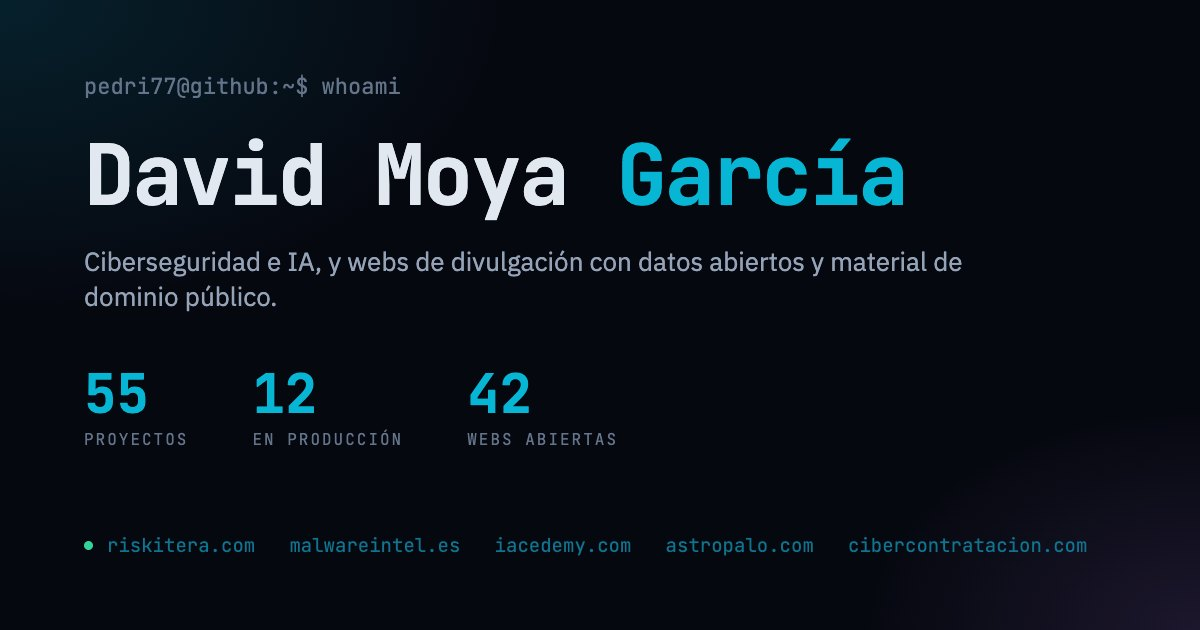
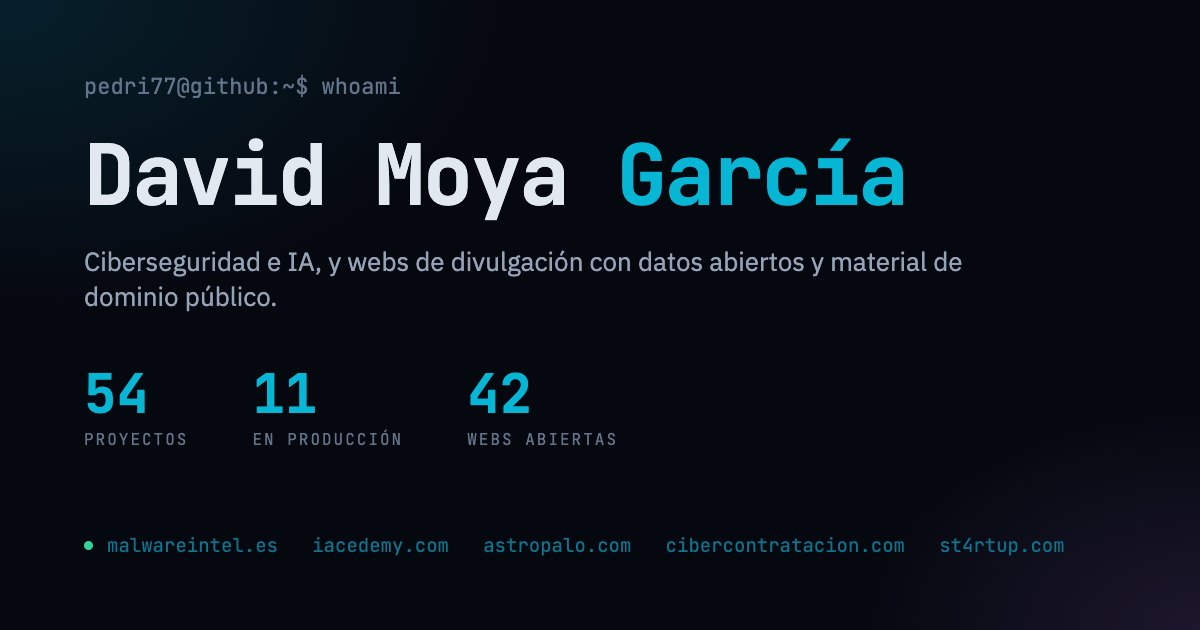
Quitar Riskitera del portfolio
Fuera la tarjeta y su captura, el icono de la cabecera, riskitera.com de la
cinta, el botón del pitch deck y la mención en la meta description y el
terminal. La rejilla pasa a 6 destacadas y 6 normales para que no queden
huecos. La imagen og se regenera con las cifras nuevas y sin subdominios.

diff --git a/index.html b/index.html
@@ -4,7 +4,7 @@
 <meta charset="utf-8"/>
 <meta name="viewport" content="width=device-width, initial-scale=1"/>
 <title>David Moya García: ciberseguridad, IA y webs de divulgación</title>
-<meta name="description" content="Portfolio de proyectos de ciberseguridad e inteligencia artificial (Riskitera, IAcademy, MalwareIntel, Astropalo, CiberContratación) y webs de divulgación con datos abiertos y material de dominio público."/>
+<meta name="description" content="Portfolio de proyectos de ciberseguridad e inteligencia artificial (IAcademy, MalwareIntel, Astropalo, CiberContratación) y webs de divulgación con datos abiertos y material de dominio público."/>
 <link rel="canonical" href="https://pedri77.github.io/"/>
 <link rel="icon" type="image/svg+xml" href="assets/favicon.svg"/>
 <meta property="og:type" content="website"/>
@@ -346,14 +346,13 @@ a{color:inherit;text-decoration:none}
   <span class="hero-tag">IA autoalojada</span>
 </div>
 <div class="hero-accesos mono">
-  <a href="#projects" class="hero-acceso">Plataformas <span><!-- gen:acc-plataformas -->12<!-- /gen:acc-plataformas --></span> &darr;</a>
+  <a href="#projects" class="hero-acceso">Plataformas <span><!-- gen:acc-plataformas -->11<!-- /gen:acc-plataformas --></span> &darr;</a>
   <a href="#oss" class="hero-acceso">Webs de divulgación <span><!-- gen:acc-webs -->42<!-- /gen:acc-webs --></span> &darr;</a>
 </div>
 <div class="hero-links">
   <a href="https://github.com/pedri77" target="_blank" class="hero-social" title="GitHub"><svg viewBox="0 0 24 24" fill="currentColor"><path d="M12 0C5.37 0 0 5.37 0 12c0 5.31 3.435 9.795 8.205 11.385.6.105.825-.255.825-.57 0-.285-.015-1.23-.015-2.235-3.015.555-3.795-.735-4.035-1.41-.135-.345-.72-1.41-1.23-1.695-.42-.225-1.02-.78-.015-.795.945-.015 1.62.87 1.845 1.23 1.08 1.815 2.805 1.305 3.495.99.105-.78.42-1.305.765-1.605-2.67-.3-5.46-1.335-5.46-5.925 0-1.305.465-2.385 1.23-3.225-.12-.3-.54-1.53.12-3.18 0 0 1.005-.315 3.3 1.23.96-.27 1.98-.405 3-.405s2.04.135 3 .405c2.295-1.56 3.3-1.23 3.3-1.23.66 1.65.24 2.88.12 3.18.765.84 1.23 1.905 1.23 3.225 0 4.605-2.805 5.625-5.475 5.925.435.375.81 1.095.81 2.22 0 1.605-.015 2.895-.015 3.3 0 .315.225.69.825.57A12.02 12.02 0 0024 12c0-6.63-5.37-12-12-12z"/></svg></a>
   <a href="https://www.linkedin.com/in/david-moya-b3a77547" target="_blank" class="hero-social" title="LinkedIn"><svg viewBox="0 0 24 24" fill="currentColor"><path d="M20.447 20.452h-3.554v-5.569c0-1.328-.027-3.037-1.852-3.037-1.853 0-2.136 1.445-2.136 2.939v5.667H9.351V9h3.414v1.561h.046c.477-.9 1.637-1.85 3.37-1.85 3.601 0 4.267 2.37 4.267 5.455v6.286zM5.337 7.433a2.062 2.062 0 01-2.063-2.065 2.064 2.064 0 112.063 2.065zm1.782 13.019H3.555V9h3.564v11.452zM22.225 0H1.771C.792 0 0 .774 0 1.729v20.542C0 23.227.792 24 1.771 24h20.451C23.2 24 24 23.227 24 22.271V1.729C24 .774 23.2 0 22.222 0h.003z"/></svg></a>
   <a href="mailto:info@iacedemy.com" class="hero-social" title="Email"><svg viewBox="0 0 24 24" fill="none" stroke="currentColor" stroke-width="2"><path d="M4 4h16c1.1 0 2 .9 2 2v12c0 1.1-.9 2-2 2H4c-1.1 0-2-.9-2-2V6c0-1.1.9-2 2-2z"/><polyline points="22,6 12,13 2,6"/></svg></a>
-  <a href="https://riskitera.com" target="_blank" class="hero-social" title="Riskitera"><svg viewBox="0 0 24 24" fill="none" stroke="currentColor" stroke-width="2"><circle cx="12" cy="12" r="10"/><line x1="2" y1="12" x2="22" y2="12"/><path d="M12 2a15.3 15.3 0 014 10 15.3 15.3 0 01-4 10 15.3 15.3 0 01-4-10 15.3 15.3 0 014-10z"/></svg></a>
   <a href="https://platform-cibersecurity.net" target="_blank" class="hero-social" title="Blog"><svg viewBox="0 0 24 24" fill="none" stroke="currentColor" stroke-width="2"><path d="M2 3h6a4 4 0 014 4v14a3 3 0 00-3-3H2z"/><path d="M22 3h-6a4 4 0 00-4 4v14a3 3 0 013-3h7z"/></svg></a>
 </div>
 
@@ -366,10 +365,10 @@ a{color:inherit;text-decoration:none}
 <!-- Stats -->
 <section class="stats-bar">
 <div class="stats-grid">
-  <div class="stat-item reveal"><div class="stat-color" style="color:var(--cyan)"><!-- gen:cifra-total --><div class="mono stat-val" data-count="55">55</div><!-- /gen:cifra-total --></div><div class="mono stat-lbl">Proyectos</div></div>
-  <div class="stat-item reveal reveal-d1"><div class="stat-color" style="color:var(--green)"><!-- gen:cifra-vivos --><div class="mono stat-val" data-count="12">12</div><!-- /gen:cifra-vivos --></div><div class="mono stat-lbl">En producción</div></div>
+  <div class="stat-item reveal"><div class="stat-color" style="color:var(--cyan)"><!-- gen:cifra-total --><div class="mono stat-val" data-count="54">54</div><!-- /gen:cifra-total --></div><div class="mono stat-lbl">Proyectos</div></div>
+  <div class="stat-item reveal reveal-d1"><div class="stat-color" style="color:var(--green)"><!-- gen:cifra-vivos --><div class="mono stat-val" data-count="11">11</div><!-- /gen:cifra-vivos --></div><div class="mono stat-lbl">En producción</div></div>
   <div class="stat-item reveal reveal-d2"><div class="stat-color" style="color:var(--purple)"><!-- gen:cifra-webs --><div class="mono stat-val" data-count="42">42</div><!-- /gen:cifra-webs --></div><div class="mono stat-lbl">Webs abiertas</div></div>
-  <div class="stat-item reveal reveal-d3"><div class="stat-color" style="color:var(--amber)"><!-- gen:cifra-dominios --><div class="mono stat-val" data-count="10">10</div><!-- /gen:cifra-dominios --></div><div class="mono stat-lbl">Dominios propios</div></div>
+  <div class="stat-item reveal reveal-d3"><div class="stat-color" style="color:var(--amber)"><!-- gen:cifra-dominios --><div class="mono stat-val" data-count="9">9</div><!-- /gen:cifra-dominios --></div><div class="mono stat-lbl">Dominios propios</div></div>
 </div>
 </section>
 
@@ -377,7 +376,6 @@ a{color:inherit;text-decoration:none}
 <div class="ticker" role="marquee" aria-label="Dominios en producción">
   <div class="ticker-track mono">
     <div class="ticker-group">
-      <span class="ticker-item"><span class="ticker-dot"></span>riskitera.com</span>
       <span class="ticker-item"><span class="ticker-dot"></span>malwareintel.es</span>
       <span class="ticker-item"><span class="ticker-dot"></span>iacedemy.com</span>
       <span class="ticker-item"><span class="ticker-dot"></span>astropalo.com</span>
@@ -388,7 +386,6 @@ a{color:inherit;text-decoration:none}
       <span class="ticker-item"><span class="ticker-dot"></span>empresaautomatizada.es</span>
     </div>
     <div class="ticker-group" aria-hidden="true">
-      <span class="ticker-item"><span class="ticker-dot"></span>riskitera.com</span>
       <span class="ticker-item"><span class="ticker-dot"></span>malwareintel.es</span>
       <span class="ticker-item"><span class="ticker-dot"></span>iacedemy.com</span>
       <span class="ticker-item"><span class="ticker-dot"></span>astropalo.com</span>
@@ -406,13 +403,12 @@ a{color:inherit;text-decoration:none}
 <h2 class="mono section-title reveal"><span>Plataformas</span> y productos</h2>
 <p class="section-desc reveal reveal-d1">Lo que construyo y mantengo en producción: ciberseguridad, inteligencia de amenazas, formación y automatización con IA.</p>
 <div class="projects-grid" id="projects-grid"><!-- gen:proyectos -->
-<article class="project-card reveal featured" style="transition-delay:0.00s;--card-color:var(--cyan)"><div class="card-media"><img src="assets/screens/riskitera.webp" alt="Captura de Riskitera" width="900" height="563" loading="lazy" decoding="async"/></div><div class="project-header"><h3 class="mono project-name" style="color:var(--cyan)">Riskitera</h3><span class="mono project-status status-live">En producción</span></div><p class="project-desc">Plataforma GRC/SOC/CTI B2B para enterprises reguladas. Multi-tenant, ENS Alto, agentes IA self-hosted.</p><a href="https://riskitera.com" target="_blank" rel="noopener" class="mono project-url">riskitera.com</a><div class="project-tags mono"><span class="project-tag">FastAPI</span><span class="project-tag">Next.js</span><span class="project-tag">Supabase</span><span class="project-tag">LangGraph</span><span class="project-tag">ENS Alto</span></div><div class="project-links mono"><a href="https://riskitera.com" target="_blank" rel="noopener" class="project-link"><svg viewBox="0 0 24 24" fill="none" stroke="currentColor" stroke-width="2" aria-hidden="true"><use href="#i-link"/></svg> Web</a><a href="https://demo.riskitera.com" target="_blank" rel="noopener" class="project-link"><svg viewBox="0 0 24 24" fill="none" stroke="currentColor" stroke-width="2" aria-hidden="true"><use href="#i-link"/></svg> Demo</a></div><div class="card-shine" aria-hidden="true"></div><div class="card-spot" aria-hidden="true"></div><div class="card-beam" aria-hidden="true"></div></article>
-<article class="project-card reveal featured" style="transition-delay:0.06s;--card-color:var(--purple)"><div class="card-media"><img src="assets/screens/malwareintel.webp" alt="Captura de MalwareIntel" width="900" height="563" loading="lazy" decoding="async"/></div><div class="project-header"><h3 class="mono project-name" style="color:var(--purple)">MalwareIntel</h3><span class="mono project-status status-live">En producción</span></div><p class="project-desc">Plataforma CTI gratuita: 4.400+ familias de malware, 2,6M+ IOCs, 3.632 reglas de detección y 218 actores de amenaza. Soberanía UE.</p><a href="https://malwareintel.es" target="_blank" rel="noopener" class="mono project-url">malwareintel.es</a><div class="project-tags mono"><span class="project-tag">FastAPI</span><span class="project-tag">Next.js</span><span class="project-tag">Qdrant</span><span class="project-tag">MITRE ATT&CK</span><span class="project-tag">STIX 2.1</span></div><div class="project-links mono"><a href="https://malwareintel.es" target="_blank" rel="noopener" class="project-link"><svg viewBox="0 0 24 24" fill="none" stroke="currentColor" stroke-width="2" aria-hidden="true"><use href="#i-link"/></svg> Web</a></div><div class="card-shine" aria-hidden="true"></div><div class="card-spot" aria-hidden="true"></div><div class="card-beam" aria-hidden="true"></div></article>
-<article class="project-card reveal featured" style="transition-delay:0.12s;--card-color:var(--green)"><div class="card-media"><img src="assets/screens/iacademy.webp" alt="Captura de IAcademy" width="900" height="563" loading="lazy" decoding="async"/></div><div class="project-header"><h3 class="mono project-name" style="color:var(--green)">IAcademy</h3><span class="mono project-status status-live">En producción</span></div><p class="project-desc">Academy de IA aplicada en español: 614 módulos, especializaciones por profesión, 625 quizzes y 232 artículos. Desde 0 EUR.</p><a href="https://iacedemy.com" target="_blank" rel="noopener" class="mono project-url">iacedemy.com</a><div class="project-tags mono"><span class="project-tag">Formación</span><span class="project-tag">IA aplicada</span><span class="project-tag">Certificados</span><span class="project-tag">Abierto</span></div><div class="project-links mono"><a href="https://iacedemy.com" target="_blank" rel="noopener" class="project-link"><svg viewBox="0 0 24 24" fill="none" stroke="currentColor" stroke-width="2" aria-hidden="true"><use href="#i-link"/></svg> Web</a></div><div class="card-shine" aria-hidden="true"></div><div class="card-spot" aria-hidden="true"></div><div class="card-beam" aria-hidden="true"></div></article>
-<article class="project-card reveal featured" style="transition-delay:0.18s;--card-color:var(--cyan)"><div class="card-media"><img src="assets/screens/construidoconia.webp" alt="Captura de Construido con IA" width="900" height="563" loading="lazy" decoding="async"/></div><div class="project-header"><h3 class="mono project-name" style="color:var(--cyan)">Construido con IA</h3><span class="mono project-status status-live">En producción</span></div><p class="project-desc">Serie de IAcademy: cada episodio convierte un dataset público oficial en web interactiva, código abierto y vídeo explicativo. 12 episodios.</p><a href="https://youtube.com/playlist?list=PLKzUzZp5rK5o" target="_blank" rel="noopener" class="mono project-url">youtube.com/playlist?list=PLKzUzZp5rK5o</a><div class="project-tags mono"><span class="project-tag">Datos públicos</span><span class="project-tag">GitHub Pages</span><span class="project-tag">Vídeo</span><span class="project-tag">Código abierto</span></div><div class="project-links mono"><a href="https://www.youtube.com/playlist?list=PLKzUzZp5rK5o" target="_blank" rel="noopener" class="project-link"><svg viewBox="0 0 24 24" fill="none" stroke="currentColor" stroke-width="2" aria-hidden="true"><use href="#i-link"/></svg> Playlist</a><a href="https://github.com/pedri77/observatorio-datos-plantilla" target="_blank" rel="noopener" class="project-link"><svg viewBox="0 0 24 24" fill="currentColor" aria-hidden="true"><use href="#i-gh"/></svg> Plantilla</a></div><div class="card-shine" aria-hidden="true"></div><div class="card-spot" aria-hidden="true"></div><div class="card-beam" aria-hidden="true"></div></article>
-<article class="project-card reveal" style="transition-delay:0.24s;--card-color:var(--blue)"><div class="card-media"><img src="assets/screens/astropalo.webp" alt="Captura de Astropalo" width="900" height="563" loading="lazy" decoding="async"/></div><div class="project-header"><h3 class="mono project-name" style="color:var(--blue)">Astropalo</h3><span class="mono project-status status-live">En producción</span></div><p class="project-desc">Vigilancia de cumplimiento web: ENS, LSSI, RGPD y accesibilidad monitorizados desde fuera, sin instalar nada, con avisos automáticos.</p><a href="https://astropalo.com" target="_blank" rel="noopener" class="mono project-url">astropalo.com</a><div class="project-tags mono"><span class="project-tag">ENS</span><span class="project-tag">RGPD</span><span class="project-tag">LSSI</span><span class="project-tag">Accesibilidad</span><span class="project-tag">SaaS</span></div><div class="project-links mono"><a href="https://astropalo.com" target="_blank" rel="noopener" class="project-link"><svg viewBox="0 0 24 24" fill="none" stroke="currentColor" stroke-width="2" aria-hidden="true"><use href="#i-link"/></svg> Web</a></div><div class="card-shine" aria-hidden="true"></div><div class="card-spot" aria-hidden="true"></div></article>
-<article class="project-card reveal" style="transition-delay:0.30s;--card-color:var(--lime)"><div class="card-media"><img src="assets/screens/cibercontratacion.webp" alt="Captura de CiberContratacion" width="900" height="563" loading="lazy" decoding="async"/></div><div class="project-header"><h3 class="mono project-name" style="color:var(--lime)">CiberContratacion</h3><span class="mono project-status status-live">En producción</span></div><p class="project-desc">Inteligencia de ciberseguridad en la contratación pública española: 6.008+ licitaciones, 121 organismos, scoring y threat actors.</p><a href="https://cibercontratacion.com" target="_blank" rel="noopener" class="mono project-url">cibercontratacion.com</a><div class="project-tags mono"><span class="project-tag">Licitaciones</span><span class="project-tag">Scoring</span><span class="project-tag">Inteligencia de amenazas</span><span class="project-tag">Sector público</span></div><div class="project-links mono"><a href="https://cibercontratacion.com" target="_blank" rel="noopener" class="project-link"><svg viewBox="0 0 24 24" fill="none" stroke="currentColor" stroke-width="2" aria-hidden="true"><use href="#i-link"/></svg> Web</a></div><div class="card-shine" aria-hidden="true"></div><div class="card-spot" aria-hidden="true"></div></article>
-<article class="project-card reveal" style="transition-delay:0.36s;--card-color:var(--purple)"><div class="card-media"><img src="assets/screens/airadar.webp" alt="Captura de AI Radar" width="900" height="563" loading="lazy" decoding="async"/></div><div class="project-header"><h3 class="mono project-name" style="color:var(--purple)">AI Radar</h3><span class="mono project-status status-live">En producción</span></div><p class="project-desc">Sistema de conocimiento del ecosistema IA: descubre, analiza y sigue modelos, frameworks, papers y herramientas en tiempo real.</p><a href="https://airadar.iacedemy.com" target="_blank" rel="noopener" class="mono project-url">airadar.iacedemy.com</a><div class="project-tags mono"><span class="project-tag">Ecosistema IA</span><span class="project-tag">Seguimiento</span><span class="project-tag">Base de conocimiento</span></div><div class="project-links mono"><a href="https://airadar.iacedemy.com" target="_blank" rel="noopener" class="project-link"><svg viewBox="0 0 24 24" fill="none" stroke="currentColor" stroke-width="2" aria-hidden="true"><use href="#i-link"/></svg> Web</a></div><div class="card-shine" aria-hidden="true"></div><div class="card-spot" aria-hidden="true"></div></article>
+<article class="project-card reveal featured" style="transition-delay:0.00s;--card-color:var(--purple)"><div class="card-media"><img src="assets/screens/malwareintel.webp" alt="Captura de MalwareIntel" width="900" height="563" loading="lazy" decoding="async"/></div><div class="project-header"><h3 class="mono project-name" style="color:var(--purple)">MalwareIntel</h3><span class="mono project-status status-live">En producción</span></div><p class="project-desc">Plataforma CTI gratuita: 4.400+ familias de malware, 2,6M+ IOCs, 3.632 reglas de detección y 218 actores de amenaza. Soberanía UE.</p><a href="https://malwareintel.es" target="_blank" rel="noopener" class="mono project-url">malwareintel.es</a><div class="project-tags mono"><span class="project-tag">FastAPI</span><span class="project-tag">Next.js</span><span class="project-tag">Qdrant</span><span class="project-tag">MITRE ATT&CK</span><span class="project-tag">STIX 2.1</span></div><div class="project-links mono"><a href="https://malwareintel.es" target="_blank" rel="noopener" class="project-link"><svg viewBox="0 0 24 24" fill="none" stroke="currentColor" stroke-width="2" aria-hidden="true"><use href="#i-link"/></svg> Web</a></div><div class="card-shine" aria-hidden="true"></div><div class="card-spot" aria-hidden="true"></div><div class="card-beam" aria-hidden="true"></div></article>
+<article class="project-card reveal featured" style="transition-delay:0.06s;--card-color:var(--green)"><div class="card-media"><img src="assets/screens/iacademy.webp" alt="Captura de IAcademy" width="900" height="563" loading="lazy" decoding="async"/></div><div class="project-header"><h3 class="mono project-name" style="color:var(--green)">IAcademy</h3><span class="mono project-status status-live">En producción</span></div><p class="project-desc">Academy de IA aplicada en español: 614 módulos, especializaciones por profesión, 625 quizzes y 232 artículos. Desde 0 EUR.</p><a href="https://iacedemy.com" target="_blank" rel="noopener" class="mono project-url">iacedemy.com</a><div class="project-tags mono"><span class="project-tag">Formación</span><span class="project-tag">IA aplicada</span><span class="project-tag">Certificados</span><span class="project-tag">Abierto</span></div><div class="project-links mono"><a href="https://iacedemy.com" target="_blank" rel="noopener" class="project-link"><svg viewBox="0 0 24 24" fill="none" stroke="currentColor" stroke-width="2" aria-hidden="true"><use href="#i-link"/></svg> Web</a></div><div class="card-shine" aria-hidden="true"></div><div class="card-spot" aria-hidden="true"></div><div class="card-beam" aria-hidden="true"></div></article>
+<article class="project-card reveal featured" style="transition-delay:0.12s;--card-color:var(--cyan)"><div class="card-media"><img src="assets/screens/construidoconia.webp" alt="Captura de Construido con IA" width="900" height="563" loading="lazy" decoding="async"/></div><div class="project-header"><h3 class="mono project-name" style="color:var(--cyan)">Construido con IA</h3><span class="mono project-status status-live">En producción</span></div><p class="project-desc">Serie de IAcademy: cada episodio convierte un dataset público oficial en web interactiva, código abierto y vídeo explicativo. 12 episodios.</p><a href="https://youtube.com/playlist?list=PLKzUzZp5rK5o" target="_blank" rel="noopener" class="mono project-url">youtube.com/playlist?list=PLKzUzZp5rK5o</a><div class="project-tags mono"><span class="project-tag">Datos públicos</span><span class="project-tag">GitHub Pages</span><span class="project-tag">Vídeo</span><span class="project-tag">Código abierto</span></div><div class="project-links mono"><a href="https://www.youtube.com/playlist?list=PLKzUzZp5rK5o" target="_blank" rel="noopener" class="project-link"><svg viewBox="0 0 24 24" fill="none" stroke="currentColor" stroke-width="2" aria-hidden="true"><use href="#i-link"/></svg> Playlist</a><a href="https://github.com/pedri77/observatorio-datos-plantilla" target="_blank" rel="noopener" class="project-link"><svg viewBox="0 0 24 24" fill="currentColor" aria-hidden="true"><use href="#i-gh"/></svg> Plantilla</a></div><div class="card-shine" aria-hidden="true"></div><div class="card-spot" aria-hidden="true"></div><div class="card-beam" aria-hidden="true"></div></article>
+<article class="project-card reveal featured" style="transition-delay:0.18s;--card-color:var(--blue)"><div class="card-media"><img src="assets/screens/astropalo.webp" alt="Captura de Astropalo" width="900" height="563" loading="lazy" decoding="async"/></div><div class="project-header"><h3 class="mono project-name" style="color:var(--blue)">Astropalo</h3><span class="mono project-status status-live">En producción</span></div><p class="project-desc">Vigilancia de cumplimiento web: ENS, LSSI, RGPD y accesibilidad monitorizados desde fuera, sin instalar nada, con avisos automáticos.</p><a href="https://astropalo.com" target="_blank" rel="noopener" class="mono project-url">astropalo.com</a><div class="project-tags mono"><span class="project-tag">ENS</span><span class="project-tag">RGPD</span><span class="project-tag">LSSI</span><span class="project-tag">Accesibilidad</span><span class="project-tag">SaaS</span></div><div class="project-links mono"><a href="https://astropalo.com" target="_blank" rel="noopener" class="project-link"><svg viewBox="0 0 24 24" fill="none" stroke="currentColor" stroke-width="2" aria-hidden="true"><use href="#i-link"/></svg> Web</a></div><div class="card-shine" aria-hidden="true"></div><div class="card-spot" aria-hidden="true"></div><div class="card-beam" aria-hidden="true"></div></article>
+<article class="project-card reveal featured" style="transition-delay:0.24s;--card-color:var(--lime)"><div class="card-media"><img src="assets/screens/cibercontratacion.webp" alt="Captura de CiberContratacion" width="900" height="563" loading="lazy" decoding="async"/></div><div class="project-header"><h3 class="mono project-name" style="color:var(--lime)">CiberContratacion</h3><span class="mono project-status status-live">En producción</span></div><p class="project-desc">Inteligencia de ciberseguridad en la contratación pública española: 6.008+ licitaciones, 121 organismos, scoring y threat actors.</p><a href="https://cibercontratacion.com" target="_blank" rel="noopener" class="mono project-url">cibercontratacion.com</a><div class="project-tags mono"><span class="project-tag">Licitaciones</span><span class="project-tag">Scoring</span><span class="project-tag">Inteligencia de amenazas</span><span class="project-tag">Sector público</span></div><div class="project-links mono"><a href="https://cibercontratacion.com" target="_blank" rel="noopener" class="project-link"><svg viewBox="0 0 24 24" fill="none" stroke="currentColor" stroke-width="2" aria-hidden="true"><use href="#i-link"/></svg> Web</a></div><div class="card-shine" aria-hidden="true"></div><div class="card-spot" aria-hidden="true"></div><div class="card-beam" aria-hidden="true"></div></article>
+<article class="project-card reveal featured" style="transition-delay:0.30s;--card-color:var(--purple)"><div class="card-media"><img src="assets/screens/airadar.webp" alt="Captura de AI Radar" width="900" height="563" loading="lazy" decoding="async"/></div><div class="project-header"><h3 class="mono project-name" style="color:var(--purple)">AI Radar</h3><span class="mono project-status status-live">En producción</span></div><p class="project-desc">Sistema de conocimiento del ecosistema IA: descubre, analiza y sigue modelos, frameworks, papers y herramientas en tiempo real.</p><a href="https://airadar.iacedemy.com" target="_blank" rel="noopener" class="mono project-url">airadar.iacedemy.com</a><div class="project-tags mono"><span class="project-tag">Ecosistema IA</span><span class="project-tag">Seguimiento</span><span class="project-tag">Base de conocimiento</span></div><div class="project-links mono"><a href="https://airadar.iacedemy.com" target="_blank" rel="noopener" class="project-link"><svg viewBox="0 0 24 24" fill="none" stroke="currentColor" stroke-width="2" aria-hidden="true"><use href="#i-link"/></svg> Web</a></div><div class="card-shine" aria-hidden="true"></div><div class="card-spot" aria-hidden="true"></div><div class="card-beam" aria-hidden="true"></div></article>
 <article class="project-card reveal" style="transition-delay:0.36s;--card-color:var(--green)"><div class="card-media"><img src="assets/screens/st4rtup.webp" alt="Captura de st4rtup.com" width="900" height="563" loading="lazy" decoding="async"/></div><div class="project-header"><h3 class="mono project-name" style="color:var(--green)">st4rtup.com</h3><span class="mono project-status status-live">En producción</span></div><p class="project-desc">CRM de ventas para startups: pipeline, clientes y seguimiento comercial en un solo sitio.</p><a href="https://st4rtup.com" target="_blank" rel="noopener" class="mono project-url">st4rtup.com</a><div class="project-tags mono"><span class="project-tag">CRM</span><span class="project-tag">Ventas</span><span class="project-tag">Startups</span></div><div class="project-links mono"><a href="https://st4rtup.com" target="_blank" rel="noopener" class="project-link"><svg viewBox="0 0 24 24" fill="none" stroke="currentColor" stroke-width="2" aria-hidden="true"><use href="#i-link"/></svg> Web</a></div><div class="card-shine" aria-hidden="true"></div><div class="card-spot" aria-hidden="true"></div></article>
 <article class="project-card reveal" style="transition-delay:0.36s;--card-color:var(--blue)"><div class="card-media"><img src="assets/screens/autonomousdesign.webp" alt="Captura de Autonomous Design" width="900" height="563" loading="lazy" decoding="async"/></div><div class="project-header"><h3 class="mono project-name" style="color:var(--blue)">Autonomous Design</h3><span class="mono project-status status-live">En producción</span></div><p class="project-desc">Estudio de producto digital con IA: describes el proyecto y en 48 horas recibes una propuesta con precio, plan de sprints, riesgos y contrato. MVP, plataformas y automatización con agentes de IA, con infraestructura en la UE.</p><a href="https://autonomousdesing.com" target="_blank" rel="noopener" class="mono project-url">autonomousdesing.com</a><div class="project-tags mono"><span class="project-tag">Producto digital</span><span class="project-tag">IA</span><span class="project-tag">Diseño</span></div><div class="project-links mono"><a href="https://autonomousdesing.com" target="_blank" rel="noopener" class="project-link"><svg viewBox="0 0 24 24" fill="none" stroke="currentColor" stroke-width="2" aria-hidden="true"><use href="#i-link"/></svg> Web</a></div><div class="card-shine" aria-hidden="true"></div><div class="card-spot" aria-hidden="true"></div></article>
 <article class="project-card reveal" style="transition-delay:0.36s;--card-color:var(--cyan)"><div class="card-media"><img src="assets/screens/platformcibersecurity.webp" alt="Captura de Platform Cibersecurity" width="900" height="563" loading="lazy" decoding="async"/></div><div class="project-header"><h3 class="mono project-name" style="color:var(--cyan)">Platform Cibersecurity</h3><span class="mono project-status status-live">En producción</span></div><p class="project-desc">Plataforma autopilotada de artículos técnicos sobre ciberseguridad. Blue Team, análisis de malware, seguridad en APIs y LLMs. HITL workflow.</p><a href="https://platform-cibersecurity.net" target="_blank" rel="noopener" class="mono project-url">platform-cibersecurity.net</a><div class="project-tags mono"><span class="project-tag">Next.js</span><span class="project-tag">CF Workers</span><span class="project-tag">MDX</span><span class="project-tag">Blue Team</span><span class="project-tag">HITL</span></div><div class="project-links mono"><a href="https://platform-cibersecurity.net" target="_blank" rel="noopener" class="project-link"><svg viewBox="0 0 24 24" fill="none" stroke="currentColor" stroke-width="2" aria-hidden="true"><use href="#i-link"/></svg> Web</a></div><div class="card-shine" aria-hidden="true"></div><div class="card-spot" aria-hidden="true"></div></article>
@@ -483,7 +479,6 @@ a{color:inherit;text-decoration:none}
 <p class="cierre-texto">Plataformas de seguridad, automatización con IA y proyectos abiertos. Cuéntame en qué estás trabajando.</p>
 <div class="cierre-botones">
   <a href="mailto:info@iacedemy.com" class="btn-claro"><svg width="16" height="16" viewBox="0 0 24 24" fill="none" stroke="currentColor" stroke-width="1.8"><rect x="2.5" y="4.5" width="19" height="15" rx="2.5"/><path d="M3 6.5l9 6.5 9-6.5"/></svg> info@iacedemy.com</a>
-  <a href="https://pedri77.github.io/riskitera-pitch-deck/" target="_blank" class="mono btn-borde">Presentación de Riskitera &rarr;</a>
   <a href="https://buymeacoffee.com/pedri77" target="_blank" class="mono btn-coffee" style="font-size:.8rem;padding:.75rem 1.25rem;border-radius:999px">&#9829; Invítame a un café</a>
 </div>
 </section>
@@ -700,12 +695,12 @@ document.querySelectorAll('.projects-grid, .oss-grid').forEach(function(grid) {
 (function() {
   var body = document.getElementById('terminal-body');
   if (!body) return;
-  var ESTADO = '55 proyectos · 12 en producción · soberanía UE'; // lo rellena scripts/generar.py
+  var ESTADO = '54 proyectos · 11 en producción · soberanía UE'; // lo rellena scripts/generar.py
   var SCRIPT = [
     ['cmd', 'whoami'],
     ['out', 'david moya · ciberseguridad e ia'],
     ['cmd', 'ls proyectos/'],
-    ['out', 'riskitera  iacademy  malwareintel  astropalo'],
+    ['out', 'iacademy  malwareintel  astropalo  cibercontratacion'],
     ['out', 'cibercontratacion  empresaautomatizada  airadar'],
     ['cmd', 'cat estado.txt'],
     ['out', ESTADO],
